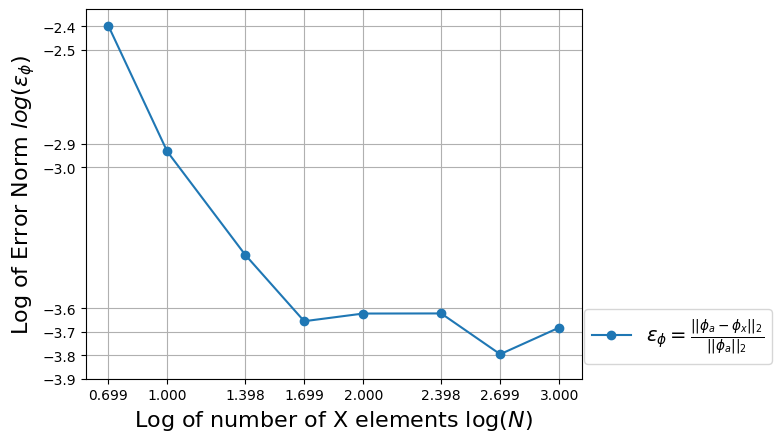
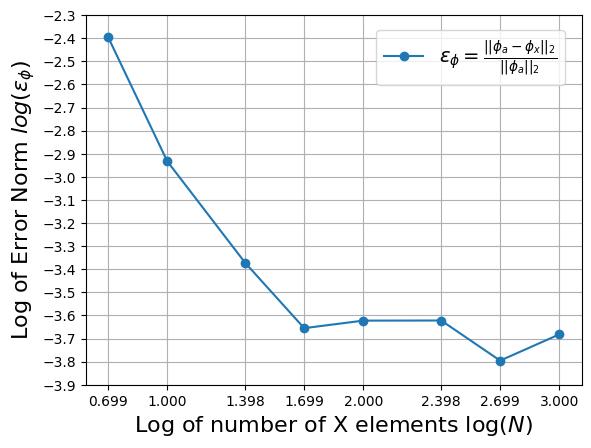
made error norm plots acceptable for papers. removed flux visualization from viz.py since it is the reviz directory where the good flux are stored

diff --git a/simulations/visualization/more_active_batches/viz.py b/simulations/visualization/more_active_batches/viz.py
@@ -1,5 +1,5 @@
 # a tidier visualization script that takes Cardinal outputs
-# and plots C/E and error norms for the temperature and flux
+# and plots C/E and error norms for the temperature
 
 import openmc
 import numpy as np
@@ -69,19 +69,6 @@ plt.grid()
 plt.savefig("analytical_flux_50.png")
 plt.clf()
 
-#plot individual C/E
-for n in n_elems:
-    plt.plot(xx[n],ratios_flux_num_to_analy[n],'-go',label=f"{n} x-elem")
-    plt.xticks([-60,-40,-20,0,20,40,60])
-    plt.yticks(np.linspace(np.min(ratios_flux_num_to_analy[n]),np.max(ratios_flux_num_to_analy[n]),5))
-    plt.xlabel("X Coordinate [cm]")
-    plt.ylabel(r"Flux C/E")
-    plt.title(f"Ratio Numerical to Analytical Flux {n} Mesh Elements")
-    plt.legend()
-    plt.grid()
-    plt.savefig(f"num_to_analytical_flux_{n}.png",bbox_inches='tight')
-    plt.clf()
-
 # plot all temp C/E on one plot
 for n in n_elems:
     plt.plot(xx[n],ratios_temp_num_to_analy[n],label=f"{n} x-elem")
@@ -142,27 +129,7 @@ plt.grid()
 plt.savefig("fine_temp_num_to_analy_ratios.png",bbox_inches='tight')
 plt.clf()
 
-# flux error norms NO RESTART - TODO decide whether to delete this part and only visualize flux from reviz
-# plot all flux C/E on one plot
-for n in [50,100,250,500,1000]:
-    plt.plot(xx[n],ratios_flux_num_to_analy[n],label=f"{n} x-elem")
-plt.plot(xx[n],ones,'-k',label="exact")
-plt.xticks([-60,-40,-20,0,20,40,60])
-dict_min = min(i for v in ratios_flux_num_to_analy.values() for i in v)
-dict_max = max(i for v in ratios_flux_num_to_analy.values() for i in v)
-plt.yticks(np.linspace(dict_min,dict_max,7))
-plt.gca().yaxis.tick_right()
-plt.gca().yaxis.set_major_formatter(mtick.FormatStrFormatter('%.5f'))
-plt.xlabel("X Coordinate [cm]",fontsize=16)
-plt.ylabel(r"Flux C/E",fontsize=16)
-# plt.title("Ratio Numerical to Analytical Flux All Meshes. 200 Picard Iterations")
-plt.legend(ncol=2)
-plt.grid()
-plt.savefig("flux_num_to_analy_ratios.png",bbox_inches='tight')
-plt.clf()
-
-
-#### ERROR NORMS ####
+#### TEMP ERROR NORM ####
 
 log_temp_error_norms = [] # list to house the error for each mesh size
 for n in n_elems:
@@ -174,7 +141,7 @@ print(log_temp_error_norms)
 # plot the error for each threshold against the number of mesh elements
 plt.plot(log_N,log_temp_error_norms,'-ro',label=r'$\epsilon_{T}=\frac{||T_{a} - T_{x} ||_{2}}{|| T_{a} ||_{2}}$')
 plt.xticks(log_N)
-plt.yticks([-2.75,-3,-3.25,-3.5,-3.75,-4,-4.25])
+plt.yticks([-1.75,-2,-2.25,-2.5,-2.75,-3,-3.25,-3.5,-3.75,-4,-4.25])
 # plt.ticklabel_format(axis='y', style='sci', scilimits=(0,0))
 plt.xlabel(r"Log of number of X elements $\log(N)$",fontsize=16)
 plt.ylabel(r"Log of Error Norm $log(\epsilon_{T})$",fontsize=16)
@@ -184,40 +151,5 @@ plt.grid()
 plt.savefig("temp_error_norms.png",bbox_inches='tight')
 plt.clf()
 
-# compute flux error norm
-flux_deviations = {}
-flux_dev_norms = {}
-analytical_norms = {}
-flux_error_norms = {}
-# flux error ratio
-for n in n_elems:
-    flux_deviations[n] = []
-    # compute mean, stdev, and analytical - numerical
-    for i in range(n):
-        flux_deviations[n].append(analytical_phi[n][i]-cardinal_fluxes[n][i])
-    flux_dev_norms[n] = np.linalg.norm(flux_deviations[n],ord=2)
-    analytical_norms[n] = np.linalg.norm(analytical_phi[n],ord=2)
-    # ratio is error norm
-    flux_error_norms[n] = flux_dev_norms[n]/analytical_norms[n]
-
-log_flux_error_norms = [np.log10(flux_error_norms[n]) for n in n_elems]
-
-# linear polynomial fit to get slope of line of best fit
-pf = np.polyfit(log_N,log_flux_error_norms,1)
-print("polyfit pf:" , pf)
-
-plt.plot(log_N,log_flux_error_norms,'-o',label=r'$\epsilon_{\phi}=\frac{||\phi_{a} - \phi_{x} ||_{2}}{|| \phi_{a} ||_{2}}$')
-plt.xlabel(r"Log of number of X elements $\log(N)$",fontsize=16)
-plt.ylabel(r"Log of Error Norm $log(\epsilon_{\phi})$",fontsize=16)
-# plt.title("Flux Error Norm vs Mesh Size \n 200 Picard Iterations with Relaxation")
-plt.yticks(np.linspace(-3.75,-4,5))
-plt.grid()
-plt.legend(bbox_to_anchor=[0.985,0.25],fontsize=14)
-plt.savefig("flux_error_norms.png",bbox_inches='tight')
-plt.clf()
-
 results_T = stats.linregress(log_N,log_temp_error_norms)
 print("slope = ", results_T.slope, " r-squared = ",results_T.rvalue*results_T.rvalue)
-
-results_flux = stats.linregress(log_N,log_flux_error_norms)
-print("slope = ", results_flux.slope, " r-squared = ",results_flux.rvalue*results_flux.rvalue)

diff --git a/simulations/more_active_batches/restarts/reviz/visualize_results_flux_only.py b/simulations/more_active_batches/restarts/reviz/visualize_results_flux_only.py
@@ -204,7 +204,7 @@ log_flux_error_norms = np.array([np.log10(flux_error_norms[n]) for n in n_elems]
 # results_T = stats.linregress(log_N,log_temp_error_norms)
 # print("slope = ", results_T.slope, " r-squared = ",results_T.rvalue*results_T.rvalue)
 
-results_flux = stats.linregress(log_N,log_flux_error_norms)
+results_flux = stats.linregress(log_N[0:3],log_flux_error_norms[0:3])
 print("slope = ", results_flux.slope, " r-squared = ",results_flux.rvalue*results_flux.rvalue)
 
 
@@ -214,8 +214,8 @@ plt.xlabel(r"Log of number of X elements $\log(N)$",fontsize=16)
 plt.ylabel(r"Log of Error Norm $log(\epsilon_{\phi})$",fontsize=16)
 # plt.title("Flux Error Norm vs Mesh Size \n 200 Picard Iterations with Relaxation")
 plt.xticks(log_N)
-plt.yticks([-2.4,-2.5,-2.9,-3,-3.6,-3.7,-3.8,-3.9])
+plt.yticks([-2.3,-2.4, -2.5, -2.6, -2.7, -2.8, -2.9, -3.0, -3.1, -3.2, -3.3, -3.4, -3.5, -3.6, -3.7, -3.8, -3.9])
 plt.grid()
-plt.legend(bbox_to_anchor=[0.985,0.215],fontsize=14)
+plt.legend(bbox_to_anchor=[0.985,0.985],fontsize=14)
 plt.savefig("flux_error_norms.png",bbox_inches='tight')
 plt.clf()
